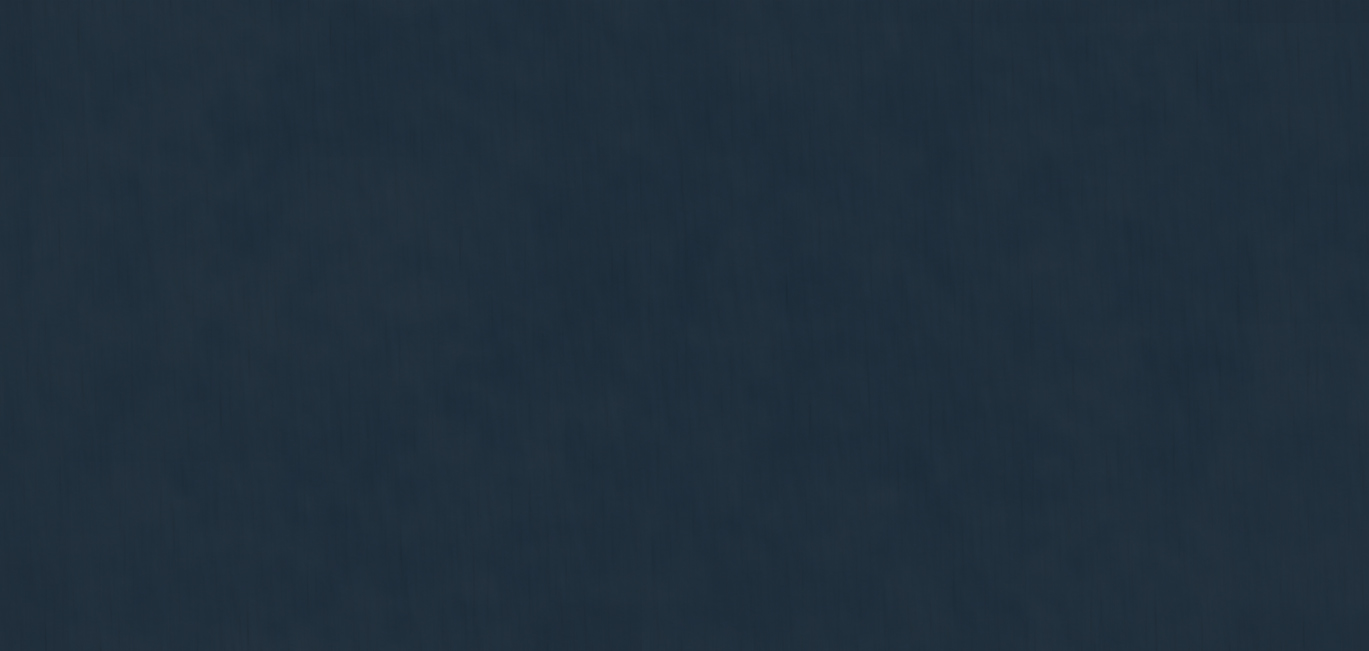
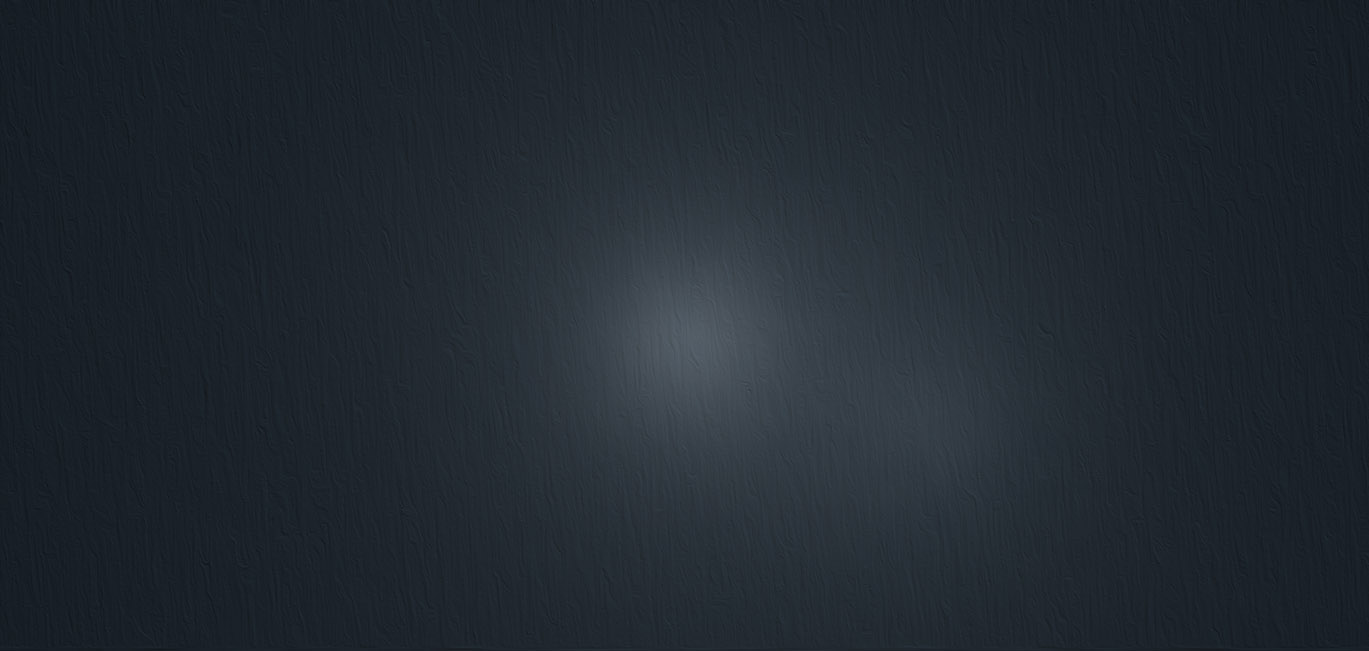
Troca do background da tela de login

diff --git a/src/main/webapp/resources/css/bootstrap/bootstrap_leds.css b/src/main/webapp/resources/css/bootstrap/bootstrap_leds.css
@@ -228,13 +228,13 @@ body {
   line-height: 20px;
   color: #333333;
   background-color: #ffffff;
-  background: url("#{resource['img/bgs:landscape.jpg']}") no-repeat center center fixed;
-  filter: progid:DXImageTransform.Microsoft.AlphaImageLoader(src="#{resource['img/bgs:landscape.jpg']}", sizingMethod='scale');
-  -ms-filter: progid:DXImageTransform.Microsoft.AlphaImageLoader(src="#{resource['img/bgs:landscape.jpg']}", sizingMethod='scale');
+  background: url("#{resource['img/bgs:bkg.jpg']}") no-repeat center center fixed;
+  filter: progid:DXImageTransform.Microsoft.AlphaImageLoader(src="#{resource['img/bgs:bkg.jpg']}", sizingMethod='scale');
+  -ms-filter: progid:DXImageTransform.Microsoft.AlphaImageLoader(src="#{resource['img/bgs:bkg.jpg']}", sizingMethod='scale');
   -webkit-background-size: cover;
   -moz-background-size: cover;
   -o-background-size: cover;
-  background-size: cover; 
+  background-size: cover;
 }
 
 a {

diff --git a/src/main/webapp/resources/css/compiled/signin.css b/src/main/webapp/resources/css/compiled/signin.css
@@ -1,6 +1,6 @@
 .login-bg {
   background: url("#{resource['img/bgs:bkg.jpg']}") no-repeat center center fixed;
-/*   background: url("../../img/bgs/landscape.jpg") no-repeat center center fixed; */
+/*   background: url("../../img/bgs/bkg.jpg") no-repeat center center fixed; */
   filter: progid:DXImageTransform.Microsoft.AlphaImageLoader(src="#{resource['img/bgs:bkg.jpg']}", sizingMethod='scale');
   -ms-filter: progid:DXImageTransform.Microsoft.AlphaImageLoader(src="#{resource['img/bgs:bkg.jpg']}", sizingMethod='scale');
   -webkit-background-size: cover;

diff --git a/src/main/webapp/resources/css/signin.css b/src/main/webapp/resources/css/signin.css
@@ -92,6 +92,7 @@
 	text-transform: uppercase;
 	font-size: 13px;
 	padding: 8px 30px;
+	margin-top: 30px;
 }
 .login-wrapper .no-account{
 	margin: 0 auto;
